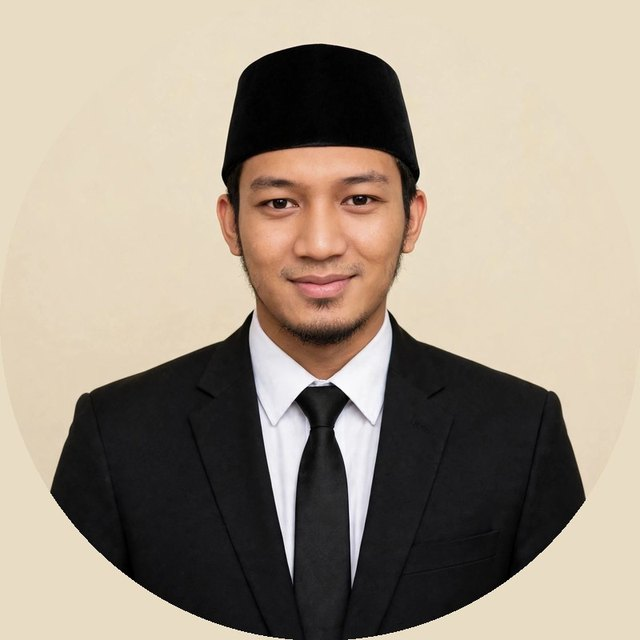
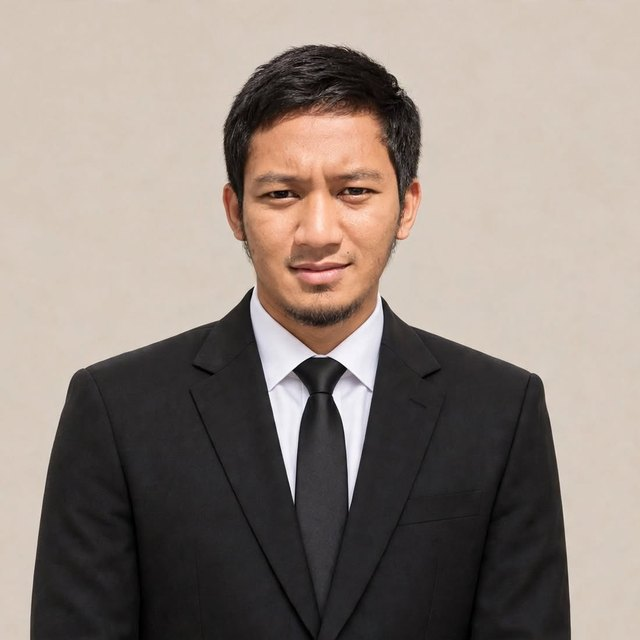
Ganti foto mempelai, teks bagikan versi orangtua

diff --git a/index.html b/index.html
@@ -12,7 +12,7 @@
 <meta property="og:url" content="https://afina-wisnu.pages.dev/">
 <!-- Setelah punya gambar pratinjau (1200x630), aktifkan baris ini: -->
 <!-- <meta property="og:image" content="https://afina-wisnu.pages.dev/assets/img/og.jpg"> -->
-<link rel="icon" href="assets/img/profil-afina.jpg" type="image/jpeg">
+<link rel="icon" href="assets/img/profil-afina.jpg?v=4" type="image/jpeg">
 <link rel="preconnect" href="https://fonts.googleapis.com">
 <link href="https://fonts.googleapis.com/css2?family=Amiri:wght@400;700&family=Cormorant+Garamond:ital,wght@0,300;0,400;1,300;1,400&family=Inter:wght@300;400;500;600&family=Playfair+Display:ital,wght@0,400;0,500;0,600;1,400&display=swap" rel="stylesheet">
 <link rel="stylesheet" href="assets/css/elegan.css?v=4">
@@ -142,6 +142,6 @@
 
 <div id="toast"></div>
 <script src="assets/js/config.js?v=11"></script>
-<script src="assets/js/main.js?v=13"></script>
+<script src="assets/js/main.js?v=14"></script>
 </body>
 </html>

diff --git a/assets/js/main.js b/assets/js/main.js
@@ -155,7 +155,11 @@
   /* Bagikan: WhatsApp dan salin tautan (tanpa nama tamu; hadiah=0 ikut terbawa) */
   const shareUrl = C.site.url.replace(/\/?$/, '/') + ($('#hadiah') ? '' : '?hadiah=0');
   const shareWA = () => {
-    const t = `Assalamu'alaikum Wr. Wb.\n\nKami mengundang Anda di pernikahan ${C.couple.bride.short} & ${C.couple.groom.short}\n${C.date.label}\n\nBuka undangan:\n${shareUrl}`;
+    const { bride: b, groom: g } = C.couple, nm = (p) => p.full.split(',')[0];
+    const isi = $('#hadiah')
+      ? `Kami mengundang Anda di pernikahan ${b.short} & ${g.short}`
+      : `Kami ${b.parents} bersama ${g.parents} mengundang Anda di pernikahan anak kami ${nm(b)} & ${nm(g)}`;
+    const t = `Assalamu'alaikum Wr. Wb.\n\n${isi}\n${C.date.label}\n\nBuka undangan:\n${shareUrl}`;
     window.open('https://wa.me/?text=' + encodeURIComponent(t), '_blank', 'noopener');
   };
   const shareCopy = () => copy(shareUrl, 'Tautan undangan disalin');

diff --git a/assets/js/config.js b/assets/js/config.js
@@ -20,14 +20,14 @@ window.INVITATION = {
       full: 'Afina Syuhudi, S.Psi.',
       role: 'Putri dari',
       parents: 'Bapak Suhudi & Ibu Saudah',
-      photo: 'assets/img/profil-afina.jpg?v=3',
+      photo: 'assets/img/profil-afina.jpg?v=4',
     },
     groom: {
       short: 'Wisnu',
       full: 'Wisnu Setya Wardhana, S.Pd.',
       role: 'Putra dari',
       parents: 'Bapak Duwi Mulyono & Ibu Warniyati',
-      photo: 'assets/img/profil-wisnu.jpg?v=3',
+      photo: 'assets/img/profil-wisnu.jpg?v=4',
     },
   },
 
